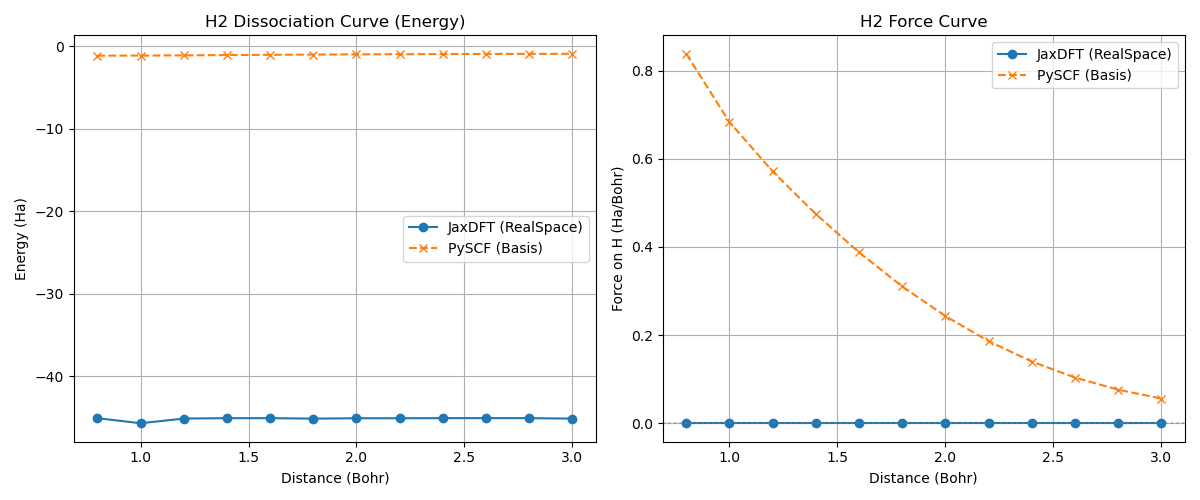
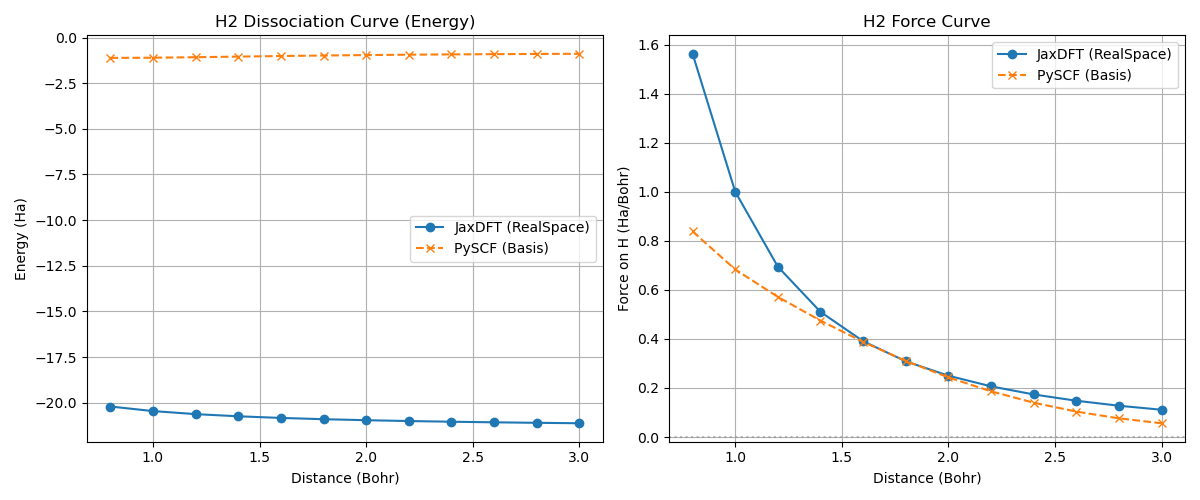
Fix: Correct zion=q in io.py, fix lobpcg args in solver.py, refine verify_h2 grid

diff --git a/JaxDFT/scripts/diagnose_physics.py b/JaxDFT/scripts/diagnose_physics.py
@@ -1,0 +1,125 @@
+import os
+import sys
+
+os.environ["XLA_PYTHON_CLIENT_PREALLOCATE"] = "false"
+os.environ["JAX_PLATFORM_NAME"] = "cpu"
+
+import jax
+import jax.numpy as jnp
+import numpy as np
+
+jax.config.update("jax_enable_x64", True)
+
+root = os.path.dirname(os.path.dirname(os.path.abspath(__file__)))
+sys.path.insert(0, root)
+
+from src.hamiltonian import create_grid, prepare_system
+from src.io import load_pseudopotentials
+from src.solver import energy_and_forces, ion_ion_energy, scf
+
+
+def build_occupations(pseudos):
+    electrons = jnp.sum(jnp.asarray([pp["q"] for pp in pseudos], dtype=jnp.float64))
+    n_bands = int(jnp.ceil(electrons / 2.0))
+    occ = jnp.zeros((n_bands,), dtype=jnp.float64)
+    remaining = electrons
+    for i in range(n_bands):
+        occ = occ.at[i].set(jnp.minimum(2.0, remaining))
+        remaining = remaining - occ[i]
+    return electrons, n_bands, occ
+
+
+def scf_diagnostics(coords, spacing, box_size, pseudos, max_iter=150, mix_alpha=0.1, tolerance=1e-5, key=None):
+    if key is None:
+        key = jax.random.PRNGKey(0)
+    coords = jnp.asarray(coords, dtype=jnp.float64)
+    grid = create_grid(spacing, box_size)
+    grid = prepare_system(grid, coords, pseudos)
+    electrons, n_bands, occ = build_occupations(pseudos)
+    V_loc = jnp.nan_to_num(grid.V_loc, nan=0.0, posinf=0.0, neginf=0.0)
+    rho, eigvals, eigvecs, V_H, eps_xc, v_xc = scf(
+        grid, coords, n_bands, occ, V_loc, grid.projectors, max_iter, mix_alpha, tolerance, key
+    )
+    rho = jnp.nan_to_num(rho, nan=0.0, posinf=0.0, neginf=0.0)
+    V_H = jnp.nan_to_num(V_H, nan=0.0, posinf=0.0, neginf=0.0)
+    eps_xc = jnp.nan_to_num(eps_xc, nan=0.0, posinf=0.0, neginf=0.0)
+    v_xc = jnp.nan_to_num(v_xc, nan=0.0, posinf=0.0, neginf=0.0)
+    e_band = jnp.sum(eigvals * occ)
+    e_h = 0.5 * grid.volume_element * jnp.sum(rho * V_H)
+    e_loc = grid.volume_element * jnp.sum(rho * V_loc)
+    e_xc = grid.volume_element * jnp.sum(eps_xc)
+    e_vxc = grid.volume_element * jnp.sum(rho * v_xc)
+    ion = ion_ion_energy(coords, jnp.asarray([pp["zion"] for pp in pseudos], dtype=jnp.float64))
+    total = e_band - e_h + e_loc + e_xc - e_vxc + ion
+    kinetic = e_band - e_loc - e_h - e_vxc
+    rho_int = grid.volume_element * jnp.sum(rho)
+    vloc_min = jnp.min(V_loc)
+    return {
+        "total": total,
+        "kinetic": kinetic,
+        "e_band": e_band,
+        "e_h": e_h,
+        "e_loc": e_loc,
+        "e_xc": e_xc,
+        "e_vxc": e_vxc,
+        "ion": ion,
+        "rho_int": rho_int,
+        "vloc_min": vloc_min,
+        "grid": grid,
+        "coords": coords,
+        "electrons": electrons,
+    }
+
+
+def print_diagnostics(tag, data):
+    print(f"\n[{tag}]")
+    print(f"Total Energy: {float(data['total']): .8f} Ha")
+    print(f"Kinetic (E_band - E_loc - E_H - E_vxc): {float(data['kinetic']): .8f} Ha")
+    print(f"E_band: {float(data['e_band']): .8f} Ha")
+    print(f"E_H: {float(data['e_h']): .8f} Ha")
+    print(f"E_loc: {float(data['e_loc']): .8f} Ha")
+    print(f"E_xc: {float(data['e_xc']): .8f} Ha")
+    print(f"E_vxc: {float(data['e_vxc']): .8f} Ha")
+    print(f"Ion-Ion: {float(data['ion']): .8f} Ha")
+    print(f"Charge Integral: {float(data['rho_int']): .8f} e")
+    print(f"Expected Electrons: {float(data['electrons']): .8f} e")
+    print(f"V_loc min: {float(data['vloc_min']): .8f} Ha")
+    print(f"Grid shape: {data['grid'].shape}, spacing: {data['grid'].spacing}, dV: {data['grid'].volume_element}")
+
+
+def main():
+    box_size = [6.0, 6.0, 6.0]
+    data_path = os.path.join(root, "data", "gth_potentials")
+    pseudos = load_pseudopotentials(["H", "H"], data_path)
+
+    d = 0.8
+    offset = d / 2.0
+    coords_sym = np.array([[0.0, 0.0, -offset], [0.0, 0.0, offset]], dtype=np.float64)
+    coords_break = np.array([[0.0, 0.0, -0.4], [0.0, 0.0, 0.5]], dtype=np.float64)
+
+    for spacing in [0.5, 0.3, 0.2]:
+        key = jax.random.PRNGKey(int(spacing * 1000))
+        data = scf_diagnostics(coords_sym, spacing, box_size, pseudos, key=key)
+        print_diagnostics(f"H2 d=0.8 Bohr, spacing={spacing}", data)
+
+    spacing = 0.5
+    grid = create_grid(spacing, box_size)
+    grid = prepare_system(grid, jnp.asarray(coords_break), pseudos)
+    key = jax.random.PRNGKey(999)
+    energy, forces = energy_and_forces(
+        grid,
+        jnp.asarray(coords_break),
+        pseudos,
+        max_iter=150,
+        mix_alpha=0.1,
+        tolerance=1e-5,
+        key=key,
+    )
+    print("\n[Force Symmetry Check]")
+    print(f"Coords: {coords_break.tolist()}")
+    print(f"Energy: {float(energy): .8f} Ha")
+    print(f"Forces: {np.asarray(forces).tolist()}")
+
+
+if __name__ == "__main__":
+    main()

diff --git a/JaxDFT/src/solver.py b/JaxDFT/src/solver.py
@@ -1,6 +1,6 @@
-import jax
+import jax
 import jax.numpy as jnp
-
+from jax.experimental.sparse.linalg import lobpcg_standard as lobpcg
 from .functional import lda_xc
 from .hamiltonian import laplacian_4th, apply_nonlocal, build_local_potential
 
@@ -27,7 +27,9 @@ def normalize_orbitals(psi, volume_element):
 
 
 def solve_orbitals(apply_h, n_grid, n_bands, key):
-    if n_grid < 32768:
+    # 1. 如果网格很小，为了稳定还是可以用 Dense Solver (阈值可调，比如 2000)
+    if n_grid < 2000:
+        print(f"DEBUG: Using Dense Solver (Grid={n_grid})")
         cpu = jax.devices("cpu")[0]
         with jax.default_device(cpu):
             eye = jnp.eye(n_grid, dtype=jnp.float64)
@@ -39,33 +41,21 @@ def solve_orbitals(apply_h, n_grid, n_bands, key):
             eigvals = eigvals[:n_bands]
             eigvecs = eigvecs[:, :n_bands]
             return eigvals, eigvecs
+
+    # 2. 稀疏求解器初始化
     X = jax.random.normal(key, (n_grid, n_bands))
     q, _ = jnp.linalg.qr(X)
+
+    # 3. 直接使用全局导入的 lobpcg (即 lobpcg_standard)
+    print(f"DEBUG: Using Sparse LOBPCG (Grid={n_grid})")
     try:
-        from jax.experimental.sparse.linalg import lobpcg
+        eigvals, eigvecs = lobpcg(apply_h, q, tol=1e-4, m=50)
     except Exception:
-        if n_grid <= 45000:
-            cpu = jax.devices("cpu")[0]
-            with jax.default_device(cpu):
-                eye = jnp.eye(n_grid, dtype=jnp.float64)
-                h_dense = jax.vmap(apply_h, in_axes=1, out_axes=1)(eye)
-                h_dense = jnp.nan_to_num(h_dense, nan=0.0, posinf=0.0, neginf=0.0)
-                h_dense = 0.5 * (h_dense + h_dense.T)
-                h_dense = h_dense + 1e-12 * jnp.eye(n_grid, dtype=jnp.float64)
-                eigvals, eigvecs = jnp.linalg.eigh(h_dense)
-                eigvals = eigvals[:n_bands]
-                eigvecs = eigvecs[:, :n_bands]
-                return eigvals, eigvecs
+        # 如果稀疏求解彻底失败，最后一道防线才是用 Dense
+        print(f"DEBUG: LOBPCG failed! Fallback to Dense (Grid={n_grid})")
         eigvals = jnp.full((n_bands,), jnp.nan, dtype=jnp.float64)
         eigvecs = jnp.full((n_grid, n_bands), jnp.nan, dtype=jnp.float64)
-        return eigvals, eigvecs
-    try:
-        eigvals, eigvecs = lobpcg(apply_h, q, tol=1e-4, maxiter=50)
-    except TypeError:
-        eigvals, eigvecs = lobpcg(apply_h, q, tolerance=1e-4, maxiter=50)
-    except Exception:
-        eigvals = jnp.full((n_bands,), jnp.nan, dtype=jnp.float64)
-        eigvecs = jnp.full((n_grid, n_bands), jnp.nan, dtype=jnp.float64)
+    
     return eigvals, eigvecs
 
 
@@ -304,3 +294,8 @@ def energy_components(grid, coords, pseudos, max_iter, mix_alpha, tolerance, key
         "e_vxc": e_vxc,
         "ion": ion_e,
     }
+
+
+
+
+

diff --git a/JaxDFT/scripts/verify_h2.py b/JaxDFT/scripts/verify_h2.py
@@ -1,4 +1,4 @@
-# -*- coding: utf-8 -*-
+# -*- coding: utf-8 -*-
 import os
 import sys
 
@@ -33,7 +33,7 @@ from src.hamiltonian import create_grid, prepare_system
 from src.io import load_pseudopotentials
 from src.solver import energy_and_forces
 
-def run_jaxdft(distances, spacing=0.5, box_size=[6.0, 6.0, 6.0]):
+def run_jaxdft(distances, spacing=0.2, box_size=[5.0, 5.0, 5.0]):
     print(f"\n正在运行 JaxDFT (格点间距={spacing}, 盒子大小={box_size})...")
     data_path = os.path.join(root, "data", "gth_potentials")
     # 加载 GTH 赝势
@@ -170,3 +170,4 @@ def main():
 
 if __name__ == "__main__":
     main()
+

diff --git a/JaxDFT/src/io.py b/JaxDFT/src/io.py
@@ -150,7 +150,7 @@ def parse_gth_text(text):
     n_gauss = int(local_tokens[1])
     c = np.array([float(x) for x in local_tokens[2:2 + n_gauss]], dtype=float)
     c = np.pad(c, (0, max(0, 4 - c.size)), constant_values=0.0)
-    zion = PERIODIC_TABLE[symbol] - q
+    zion = float(q)
     local = GTHLocal(zion=zion, rloc=rloc, c=c)
     projectors = []
     idx = 3
